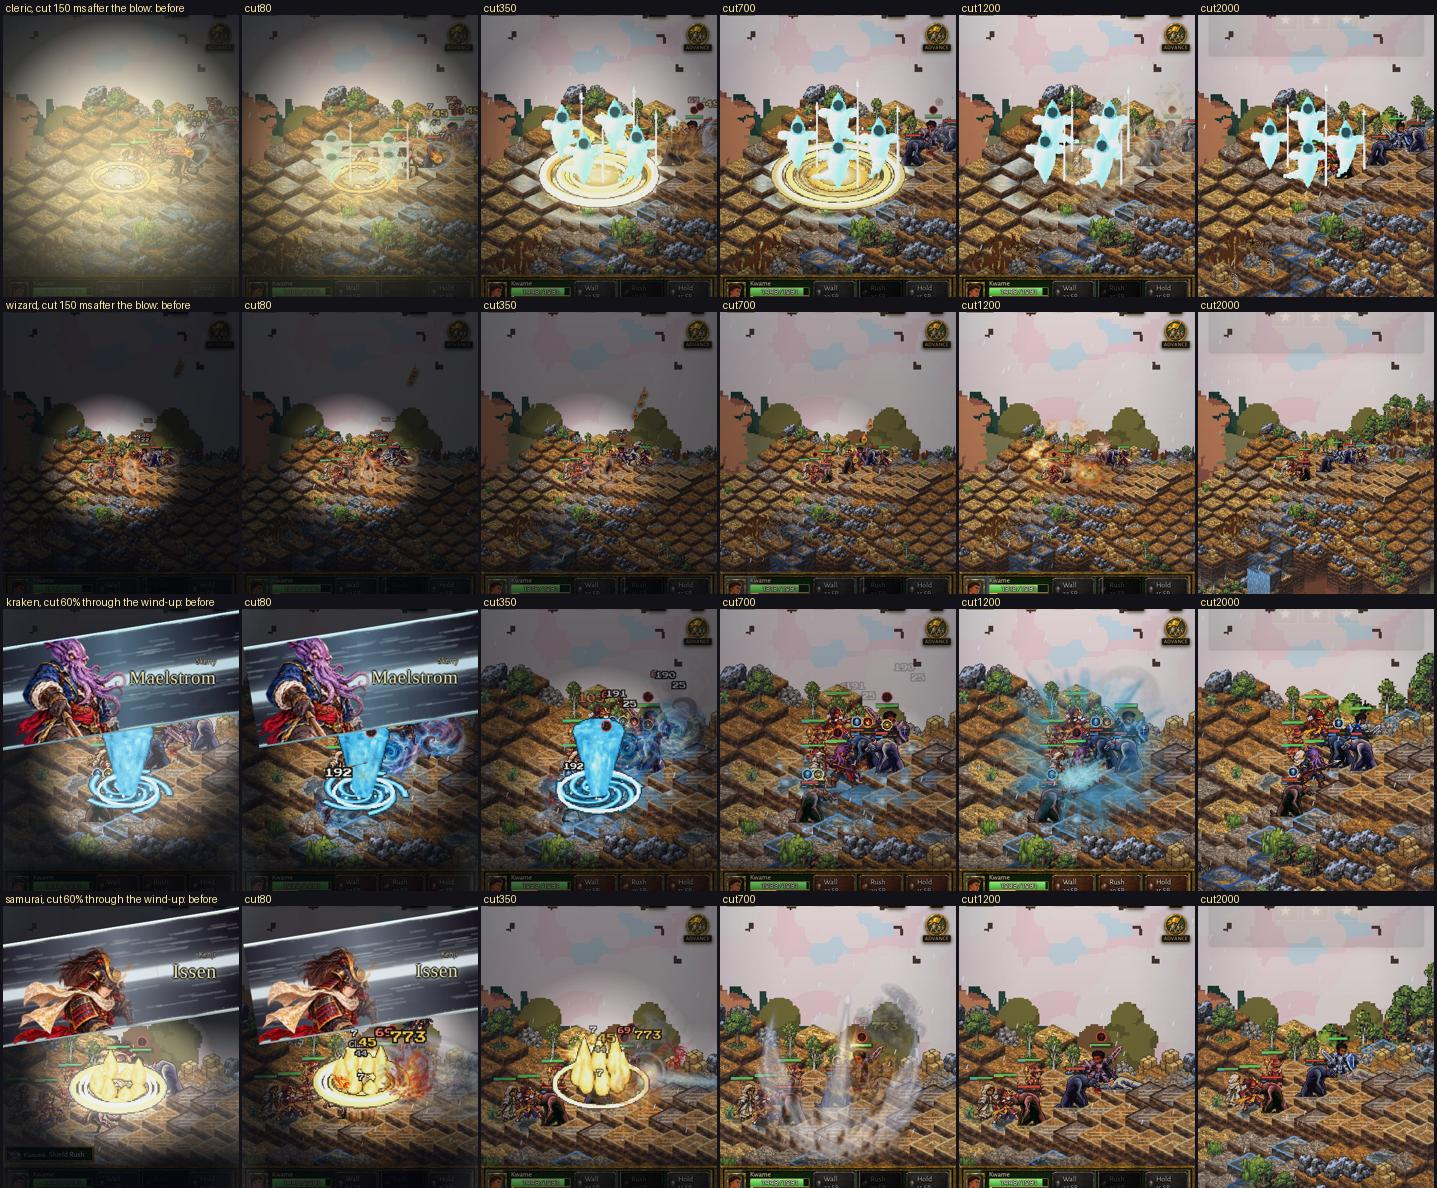
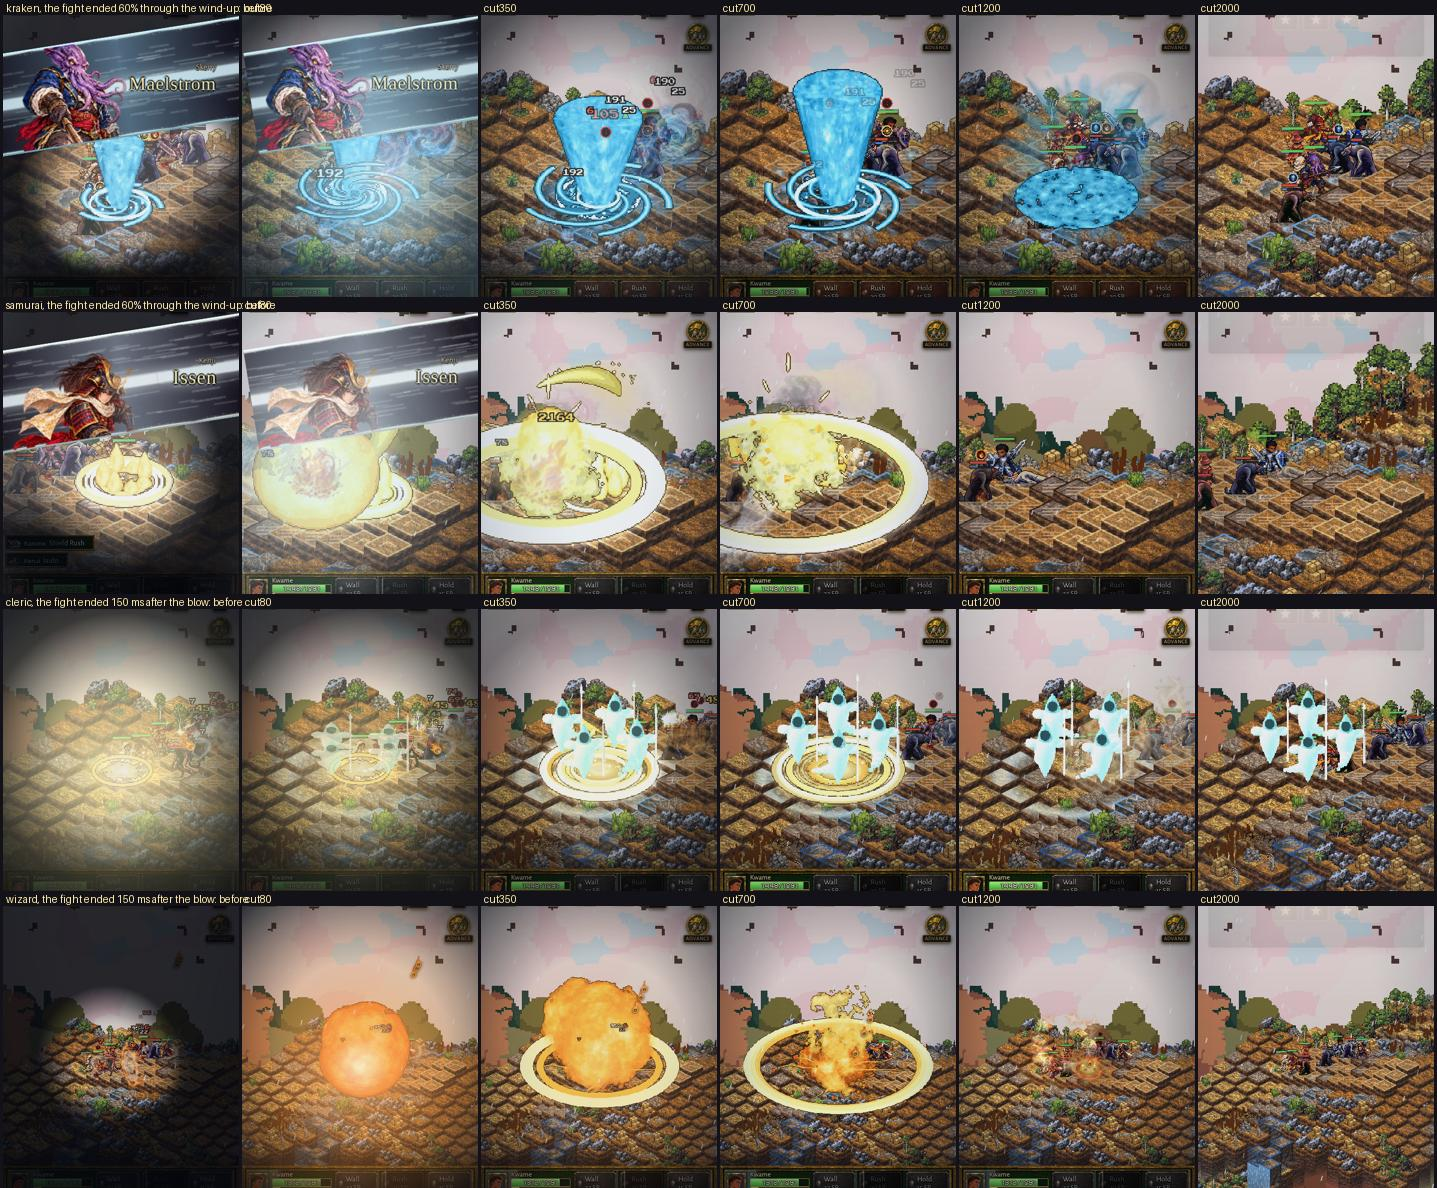
ULT-AUDIT: the killing blow is seen. A fight that ends before the moment's blow plays that blow, then the result
Claude-Session: https://claude.ai/code/session_01RRJtWnKv3aqtC5Z8HqXpVz

diff --git a/test/freeze-fix.test.ts b/test/freeze-fix.test.ts
@@ -166,10 +166,13 @@ test('no show outlives the fight: whatever is playing or waiting, a second at mo
           assert.equal(q.waiting, 0);
           q.step(33);
         }
-        assert.ok(took <= ULT_MOMENT.OVER_MS + 66, `${h} ${shape} at ${at}: ${took} ms left after the fight`);
+        // (ULT-AUDIT, the director's decision: a moment whose blow had not been seen plays that blow, its strike's own run, and ends;
+        // one whose blow had been seen has its second of aftermath. Either way far inside the two seconds the result waits)
+        assert.ok(took <= Math.max(ULT_MOMENT.OVER_MS, ULT_MOMENT.OVER_STRIKE_MS) + 66, `${h} ${shape} at ${at}: ${took} ms left after the fight`);
         assert.equal(q.overran, 0);
       }
   assert.ok(ULT_MOMENT.OVER_MS <= 1000 && CALL_OVER_MS <= 1000);
+  assert.ok(ULT_MOMENT.OVER_STRIKE_MS <= 1500, 'the blow played after a fight ends is short');
   // (nothing playing: nothing to do)
   const q = new UltQueue();
   q.fightOver();
@@ -197,4 +200,61 @@ test('a graphics context not given back in four seconds has the page loaded agai
   assert.equal(ctxReload(60000, 'fight', CTX.AGAIN_MS - 1), false);
   assert.equal(ctxReload(60000, 'fight', CTX.AGAIN_MS), true);
   assert.equal(CTX.RELOAD_MS, 4000);
+});
+
+test('ULT-AUDIT: a fight that ends before the blow was seen gets the blow, then the end; one that ends after it gets its second of aftermath', () => {
+  /** A queue stepped to `at` ms, then the fight ends: the strikes it had counted, the phases it goes through after, and how long it takes. */
+  const cut = (shape: UltShape, at: number, extra = 0) => {
+    const q = new UltQueue();
+    q.push(moment('wizard', shape, { show: 2500, wait: shape === 'delayed' ? 900 : 0 }));
+    for (let i = 0; i < extra; i++) q.push(moment('archer', 'instant', { show: 2500 }));
+    for (let t = 0; t < at && q.current; t += 33) q.step(33);
+    const before = q.strikes;
+    const phases: string[] = [];
+    let took = 0;
+    for (; took < 6000 && q.current; took += 33) {
+      q.fightOver();
+      assert.equal(q.holdsBattle, false, 'nothing is held once the fight is over');
+      assert.equal(q.waiting, 0, 'the moments waiting are dropped');
+      if (phases[phases.length - 1] !== q.phase) phases.push(q.phase);
+      q.step(33);
+    }
+    return { q, before, phases, took };
+  };
+  for (const shape of SHAPES) {
+    // (cut in the wind-up, 400 ms in: the blow had not been seen. It lands at once, plays its strike's run, and the moment ends)
+    const early = cut(shape, 400);
+    assert.equal(early.before, 0);
+    assert.equal(early.q.strikes, 1, `${shape}: the blow lands`);
+    assert.equal(early.phases[0], 'impact', `${shape}: straight to the blow`);
+    assert.ok(!early.phases.includes('open') && !early.phases.includes('show'), `${shape}: ${early.phases}`);
+    assert.ok(early.took >= ULT_MOMENT.OVER_STRIKE_MS - 66 && early.took <= ULT_MOMENT.OVER_STRIKE_MS + 66, `${shape}: the strike's own run, ${early.took} ms`);
+    // (cut in the showcase, before the blow: the same)
+    const show = cut(shape, 2600);
+    assert.equal(show.before, 0);
+    assert.equal(show.q.strikes, 1);
+    assert.ok(show.took <= ULT_MOMENT.OVER_STRIKE_MS + 66);
+  }
+  // (cut after the blow was seen: no second blow, a second of aftermath at most, as the freeze fix has it)
+  const late = cut('instant', 5200);
+  assert.equal(late.before, 1, 'the blow had landed');
+  assert.equal(late.q.strikes, 1, 'it does not land twice');
+  assert.deepEqual(late.phases, ['fade']);
+  assert.ok(late.took <= ULT_MOMENT.OVER_MS + 66, `${late.took} ms`);
+  // (a queue of several: the waiting ones are dropped, only the one playing has its blow)
+  const many = cut('instant', 400, 3);
+  assert.equal(many.q.strikes, 1);
+  assert.equal(many.q.dropped, 3);
+  assert.ok(many.took <= ULT_MOMENT.OVER_STRIKE_MS + 66);
+  // (no path is longer than the blow's run, and the blow's run is well inside the two seconds every fight's end waits for its result)
+  for (const shape of SHAPES) for (let at = 0; at <= 7000; at += 250) assert.ok(cut(shape, at).took <= ULT_MOMENT.OVER_STRIKE_MS + 66, `${shape} at ${at}`);
+  assert.ok(ULT_MOMENT.OVER_STRIKE_MS < 2000);
+  // (the next moment starts clean: a blow played at a fight's end does not carry over)
+  const q = new UltQueue();
+  q.push(moment('wizard', 'instant', { show: 2500 }));
+  q.step(400);
+  q.fightOver();
+  drain(q);
+  q.push(moment('samurai', 'instant', { show: 2500 }));
+  assert.equal(q.holdsBattle, true, 'a new moment holds its fight through its opening as ever');
 });

diff --git a/src/ultMomentRules.ts b/src/ultMomentRules.ts
@@ -57,6 +57,10 @@ export const ULT_MOMENT = {
   /** FREEZE-FIX: once the fight is over, the most that is left of the show playing: its aftermath, cut to this (real ms). The owner's
    *  freeze was a wave's end waiting 10 to 20 s for shows with nothing left to strike. */
   OVER_MS: 1000,
+  /** ULT-AUDIT (the director's decision, 2026-11-12): a fight that ends before the moment's blow has been seen (the ultimate itself
+   *  ended it) is not cut to an aftermath of a blow nobody saw: the blow lands at once, on where the foes fell, for its strike's own run
+   *  and no longer (real ms; a strike sheet is 1.3 s), then the moment ends. The result's own wait is 2 s, so it comes as the blow ends. */
+  OVER_STRIKE_MS: 1300,
 };
 
 /** FREEZE-FIX: the longest a moment may last, start to end (real ms, the freeze on the blow counted): its own length (its stages'; the
@@ -173,6 +177,8 @@ export class UltQueue {
   private openMs = ULT_MOMENT.OPEN_MS;
   private fadeMs = ULT_MOMENT.FADE_MS;
   private waitLeft = 0;
+  /** ULT-AUDIT: the fight ended before this moment's blow was seen, and the blow is playing out its last run (`fightOver`). */
+  private overBlow = false;
   /** FREEZE-FIX: how many moments were ended by their deadline (`momentLimit`), and how many were dropped still waiting as the fight
    *  ended (the page logs each when the count changes: neither should happen). */
   overran = 0;
@@ -191,6 +197,7 @@ export class UltQueue {
     this.openMs = m.stages?.windup.ms ?? ULT_MOMENT.OPEN_MS;
     this.left = this.openMs;
     this.since = null;
+    this.overBlow = false;
     this.stopLeft = 0;
     this.slowLeft = 0;
     this.stageName = 'windup';
@@ -281,12 +288,28 @@ export class UltQueue {
   }
 
   /** FREEZE-FIX: the fight is over, and no show outlives it: the moments waiting are dropped, and the one playing goes straight to its
-   *  aftermath, `OVER_MS` of it at most. Asked every frame while the fight stays over: it only ever shortens. */
+   *  aftermath, `OVER_MS` of it at most; or, when its blow has not been seen yet, to that blow (`OVER_STRIKE_MS`) and then its end.
+   *  Asked every frame while the fight stays over: it only ever shortens. */
   fightOver(): void {
     this.dropWaiting();
     if (!this.current) return;
     this.stopLeft = 0;
     this.slowLeft = 0;
+    // (ULT-AUDIT: the blow was not seen before the fight ended: it lands now, plays its strike's run with nothing held, and the
+    // moment then ends at once, with no aftermath. Asked again every frame, this only lets that run finish)
+    if (this.overBlow) {
+      if (this.phase === 'fade') this.left = 0;
+      return;
+    }
+    if (this.since === null) {
+      this.overBlow = true;
+      this.stage('strike');
+      this.strike();
+      this.stopLeft = 0;
+      this.slowLeft = 0;
+      this.to('impact', ULT_MOMENT.OVER_STRIKE_MS);
+      return;
+    }
     if (this.phase !== 'fade') this.fade(Math.min(ULT_MOMENT.OVER_MS, this.current.stages?.aftermath.ms ?? ULT_MOMENT.FADE_MS));
     else if (!(this.left <= ULT_MOMENT.OVER_MS)) this.left = ULT_MOMENT.OVER_MS;
   }
@@ -397,7 +420,8 @@ export class UltQueue {
 
   /** Whether the battle is held now (the opening, a showcase, an instant one's effects playing, and the freeze on any blow). */
   get holdsBattle(): boolean {
-    return this.phase === 'open' || this.phase === 'show' || this.phase === 'impact' || this.stopLeft > 0;
+    // (a blow played after the fight has ended holds nothing: there is no fight left to hold)
+    return !this.overBlow && (this.phase === 'open' || this.phase === 'show' || this.phase === 'impact' || this.stopLeft > 0);
   }
 
   /** Whether the effects may move now (frozen through the opening and a showcase, so the cast plays once they are over, and through the

diff --git a/src/render/fx.ts b/src/render/fx.ts
@@ -705,8 +705,10 @@ export class Fx {
       const at: [number, number][] = [];
       for (const s of own) {
         const sp = 'unit' in s ? this.sprites.get(s.unit) : undefined;
-        if ('unit' in s && !sp) continue;
-        at.push(sp ? [sp.x, sp.y] : this.tilePos(b, (s as { u: number; v: number }).u, (s as { u: number; v: number }).v));
+        // (one that has fallen and gone from the board is struck where it fell: the blow that ended the fight lands on the fallen)
+        const fell = 'unit' in s && !sp ? b.units.find((u) => u.id === s.unit) : undefined;
+        if ('unit' in s && !sp && !fell) continue;
+        at.push(sp ? [sp.x, sp.y] : fell ? this.tilePos(b, fell.u, fell.v) : this.tilePos(b, (s as { u: number; v: number }).u, (s as { u: number; v: number }).v));
       }
       if (place === 'self') {
         // (ULT-AUDIT: an aura, a ward, a transformation, a pull: it plays round the caster, once; its further bursts add nothing there)

diff --git a/docs/notes/ult-audit.md b/docs/notes/ult-audit.md
@@ -265,6 +265,30 @@ again (`audit-grey.jpg`).
   did not show (the cut does not reach the aftermath's stage from the wind-up), so I took the change out rather than leave it
   unseen. Nothing lingers, nothing waits, no errors.
 
+## The killing blow is seen (the director's decision, 2026-11-12)
+
+The cut-short photographs showed that an ultimate which itself ended the fight was never seen to land: the freeze fix (0.525.0) cut a
+show to a second of aftermath the moment the fight was over, and from the wind-up that left nothing. The director's decision: when the
+fight is over and the blow has NOT been seen, the last beat is the strike, its own run of 1.3 s at most, on where the foes fell; then
+the moment ends and the result comes. When the blow has been seen, it is the second of aftermath as before. The freeze fix's limits
+stand: the moments waiting are dropped, nothing is held, nothing waits, and the result's own two-second wait is not lengthened.
+
+- `UltQueue.fightOver` (`src/ultMomentRules.ts`): a moment whose blow has not landed lands it at once (`strike`, its stage the strike,
+  `OVER_STRIKE_MS` = 1300 of the `impact` phase with nothing held), and its fade is then ended at once. `holdsBattle` is false through
+  it.
+- `Fx.ultImpact`: a foe that has fallen and gone from the board is struck where it fell (its tile), so the blow has somewhere to land.
+- Tests (`test/freeze-fix.test.ts`): cut in the wind-up or the showcase gives the blow and ends within the strike's run, for every
+  shape; cut after the blow gives the aftermath and no second blow; a queue of several still drops the ones waiting; no cut point from
+  0 to 7 s takes longer than the strike's run; the next moment starts clean. The freeze fix's own test, which held "a second at most",
+  now holds "the blow's run or a second, whichever applies": a requirement the director changed, not a test loosened.
+- Photographed (`docs/samples/blender-fx/audit-cut-short-393.jpg`, `CUT=windup` and `CUT=strike`): the fight ended 60% through the
+  Kraken's and the Samurai's wind-ups: the whirlpool and spout, and the Samurai's great blow, play in full and are gone by 2 s; ended
+  150 ms after the Cleric's blow: the strike finishes and the guardians circle on; and the Wizard, whose meteors had not yet landed,
+  now gets its fireball.
+
+Not done: an Eidolon's call. Its strike is the other builder's staged show (`eidolonCall.ts`, its own clock and its own cut,
+`CALL_OVER_MS`), not a small change of this kind; it is left as it is.
+
 ## The audit of all 70
 
 To come, in batches: for each ultimate, what it does in the sim, what 0.499 showed, what main shows now, and the verdict; then the ten
